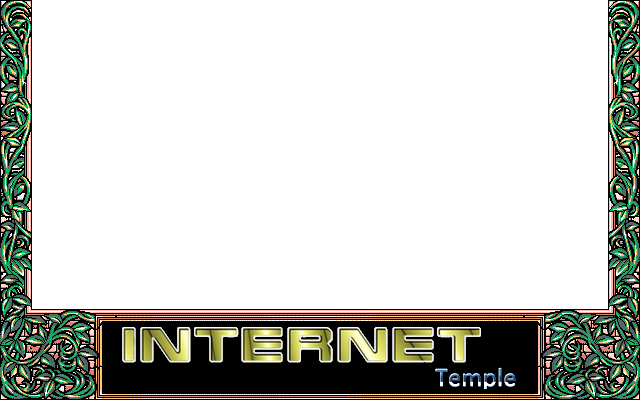
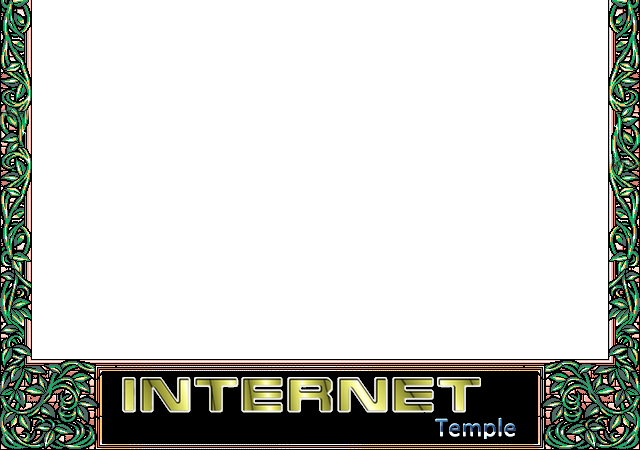
Begin updating

Changed region(s): [[0.0, 0.0, 1.0, 1.0]]

diff --git a/index.html b/index.html
@@ -10,6 +10,17 @@
         background-image: url("images/background.png");
         background-size: cover;
         background-repeat:repeat;
+        margin: 0px;
+        padding: 0px;
+      }
+      .container {
+          width: 100vw;
+          height: 100vh;
+          display: flex;
+          justify-content: space-between;
+          align-items: center;
+          flex-direction: column;
+
       }
       h3 {
         text-align: center;
@@ -29,88 +40,149 @@
       }
       #frame {
         pointer-events: none;
-        top: 0px;
         position: absolute;
-        margin-left: auto;
-        margin-right: auto;
-        left: 0;
-        right: 0;
+        top: 0px;
+        width: 100%;
       }
       #video {
-        top: 0px;
-        position: absolute;
-        margin-left: auto;
-        margin-right: auto;
-        left: 0;
-        right: 0;
-        z-index: -1;
+        /* pointer-events: auto; */
+        width: 90%;
+        height: 100%;
       }
-      #chat-window {
-        top: 425px;
-        position: absolute;
-        margin-left: auto;
-        margin-right: auto;
-        left: 0;
-        right: 0;
-        z-index: -1;
+      .video-container, .chat-container, .chat-input-container {
+          width: 52%;
       }
-      #chat-input-window {
-        top: 576px;
-        position: absolute;
-        margin-left: auto;
-        margin-right: auto;
-        left: 0;
-        right: 0;
-        z-index: -1;
+      .video-container {
+          height: 29.25vw;
+          /* height: 800px; */
+          display: flex;
+          align-items: center;
+          justify-content: center;
+          position: relative;
+          /* pointer-events: auto; */
       }
-      #chat {
-        pointer-events: none;
-        display: block;
-        resize: none;
-        height: 196px;
-        width: 600px;
-        margin-left: auto;
-        margin-right: auto;
-        margin-top: 430px;
-        background:transparent;
-        outline:none;
-        border:none;
-        color: white;
-        font-family: monospace;
-        font-size: 16pt;
+    .chat-container, .chat-input-container {
+        border: 1px solid white;
+        border-radius: 6px;
+        background-color: black;
+    }
+
+    .chat-container {
+        margin-top: 8vw;
+        height: 100%;
+        min-height: 100px;
         overflow: hidden;
-      }
-      #chat-input {
-        display: block;
-        resize: none;
-        height: 25px;
-        width: 600px;
-        margin-left: auto;
-        margin-right: auto;
-        margin-top: 23px;
-        background:transparent;
-        outline:none;
-        border:none;
+        /* pointer-events: none; */
+    }
+    .chat-input-container {
+        margin-top: 8px;
+        margin-bottom: 40px;
+    }
+    #chat-input, #chat {
         color: white;
         font-family: monospace;
-        font-size: 16pt;
-      }
-    </style>
+        font-size: 1.2em;
+        background-color: rgba(0,0,0,0);
+        width: 98%;
+    }
+    #chat-input {
+        height: 24px;
+        border: none;
+        outline: none;
+    }
+    #chat {
+        height: 100%;
+        border: none;
+        resize: none;
+        /* pointer-events: none; */
+    }
+    @media (max-width: 1000px) {
+        .container {
+            width: 98vw;
+            height: 80vh;
+            margin-left: auto;
+            margin-right: auto;
+        }
+        .video-container, .chat-container, .chat-input-container {
+            width: 100%;
+        }
+        .video-container {
+            width: 100vw;
+            height: 56vw;
+            min-height: 56vw;
+            /* height: 800px; */
+        }
+        .chat-container {
+            margin-top: 16vw;
+        }
+        .chat-input-container {
+            margin-bottom: 8px;
+        }
+    }
+</style>
   </head>
   <body>
-    <img id='frame' src="images/frame.png" alt="An ornate frame." />
-    <iframe id="video" width="640" height="360" src="" frameborder="0" allowfullscreen></iframe>
-    <img id='chat-window' src="images/chat-window.png" alt="A simple box." />
-    <textarea id="chat">
+      <div class="container">
+          <div class="video-container">
+              <iframe id="video" src="" frameborder="0"></iframe>
+              <img id='frame' src="images/frame.png" alt="An ornate frame." />
+          </div>
+          <div class="chat-container">
+              <textarea id="chat">
 ** Welcome to the Internet Temple!
 ** You can use /name to set your username.
 ** Internet Temple is a online music venue.
-   DM @tobyalden on Twitter to perform here!
-    </textarea>
-    <img id='chat-input-window' src="images/chat-input-window.png" alt="A small, long box." />
-    <input id="chat-input" type="text" autofocus="true">
+** DM @tobyalden on Twitter or @daveblanket on Instagram to perform here!
+              </textarea>
+          </div>
+          <div class="chat-input-container">
+              <input id="chat-input" type="text" autofocus="true" placeholder="Enter chat messages here">
+          </div>
+      </div>
     <script src="https://cdnjs.cloudflare.com/ajax/libs/socket.io/2.2.0/socket.io.js"></script>
     <script src="https://code.jquery.com/jquery-1.11.1.js"></script>
+    <script>
+    window.addEventListener("orientationchange", function() {
+        if (window.orientation == 270 || window.orientation == 90) {
+            var elem = document.getElementById("video");
+
+            /* When the openFullscreen() function is executed, open the video in fullscreen.
+            Note that we must include prefixes for different browsers, as they don't support the requestFullscreen method yet */
+            function openFullscreen() {
+                if (elem.requestFullscreen) {
+                    elem.requestFullscreen();
+                } else if (elem.mozRequestFullScreen) { /* Firefox */
+                    elem.mozRequestFullScreen();
+                } else if (elem.webkitRequestFullscreen) { /* Chrome, Safari and Opera */
+                    elem.webkitRequestFullscreen();
+                } else if (elem.msRequestFullscreen) { /* IE/Edge */
+                    elem.msRequestFullscreen();
+                }
+            }
+
+            // openFullscreen();
+        }
+        if (window.orientation == 0 || window.orientation == 180) {
+            var elem = document.getElementById("video");
+
+            /* When the openFullscreen() function is executed, open the video in fullscreen.
+            Note that we must include prefixes for different browsers, as they don't support the requestFullscreen method yet */
+            function closeFullscreen() {
+              if (document.exitFullscreen) {
+                document.exitFullscreen();
+              } else if (document.mozCancelFullScreen) { /* Firefox */
+                document.mozCancelFullScreen();
+              } else if (document.webkitExitFullscreen) { /* Chrome, Safari and Opera */
+                document.webkitExitFullscreen();
+              } else if (document.msExitFullscreen) { /* IE/Edge */
+                document.msExitFullscreen();
+              }
+            }
+
+            // closeFullscreen();
+        }
+    }, false);
+    </script>
     <script>
       $(function() {
         var username = localStorage.getItem('internet-temple-username');

diff --git a/index.js b/index.js
@@ -5,7 +5,7 @@ var io = require('socket.io')(http);
 var rug = require('random-username-generator');
 rug.setSeperator('_');
 
-currentEmbed = "https://www.youtube.com/embed/DOvy38gU4Ls?showinfo=0&autoplay=1&rel=0&controls=0&modestbranding=0&disablekb=1";
+currentEmbed = "https://www.youtube.com/embed/DOvy38gU4Ls?showinfo=0&autoplay=1&rel=0&modestbranding=0&disablekb=1&playsinline=1";
 
 app.use(express.static('public'));
 
